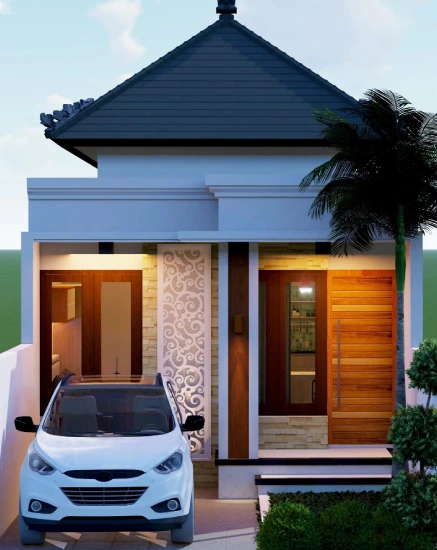
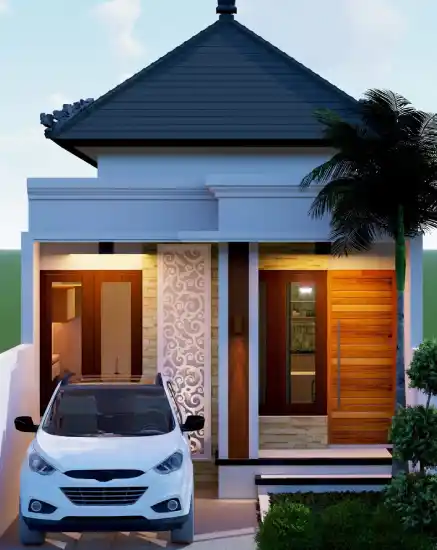
fix: use only one image in property overview

Changed region(s): [[0.238, 0.68, 0.2975, 0.7109], [0.9222, 0.8345, 0.9519, 0.8655]]

diff --git a/app/Views/home/property.php b/app/Views/home/property.php
@@ -4,11 +4,11 @@
         <div class="row align-items-center">
             <div class="col-lg-6">
                 <div class="property-images-area">
-                    <div class="img1 reveal image-anime">
-                        <img width="437" height="550" src="<?= $img ?>all-images/property/<?= $overview['image1'] ?>" alt="">
-                    </div>
+                    <!-- <div class="img1 reveal image-anime">
+                        <img width="437" height="550" style="visibility: hidden;" src="<?//= $img ?>all-images/property/<?//= $overview['image1'] ?>" alt="">
+                    </div> -->
                     <div class="img2 reveal image-anime">
-                        <img width="437" height="550" src="<?= $img ?>all-images/property/<?= $overview['image2'] ?>" alt="">
+                        <img width="437" height="550" src="<?= $img ?>all-images/property/<?= $overview['image1'] ?>" alt="">
                     </div>
                     <div class="elements reveal image-anime">
                         <img src="<?= $img ?>elements/elements9.png" alt="">
